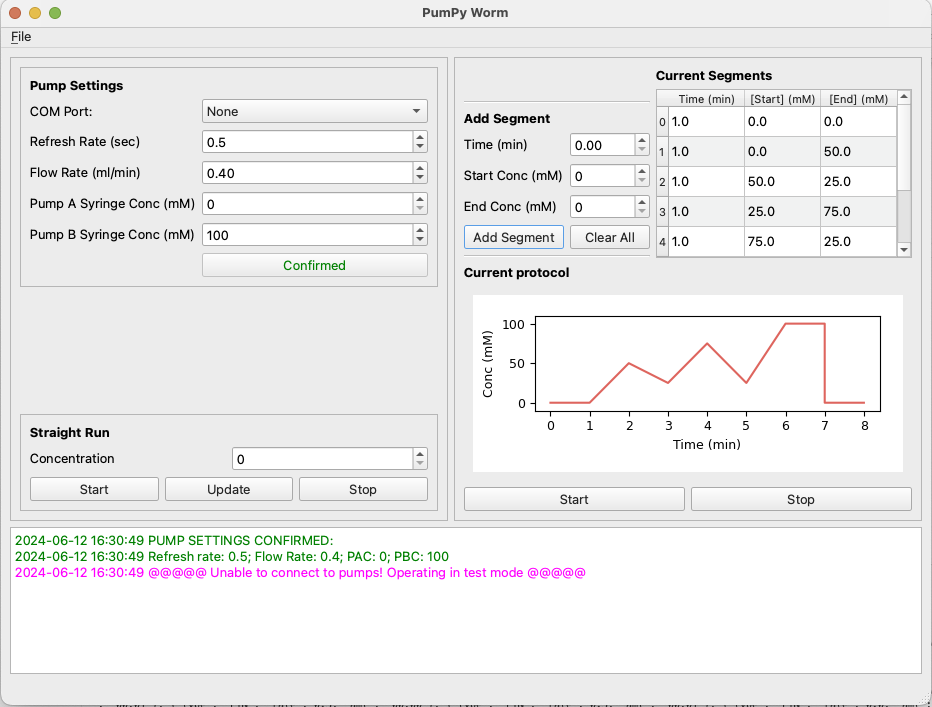
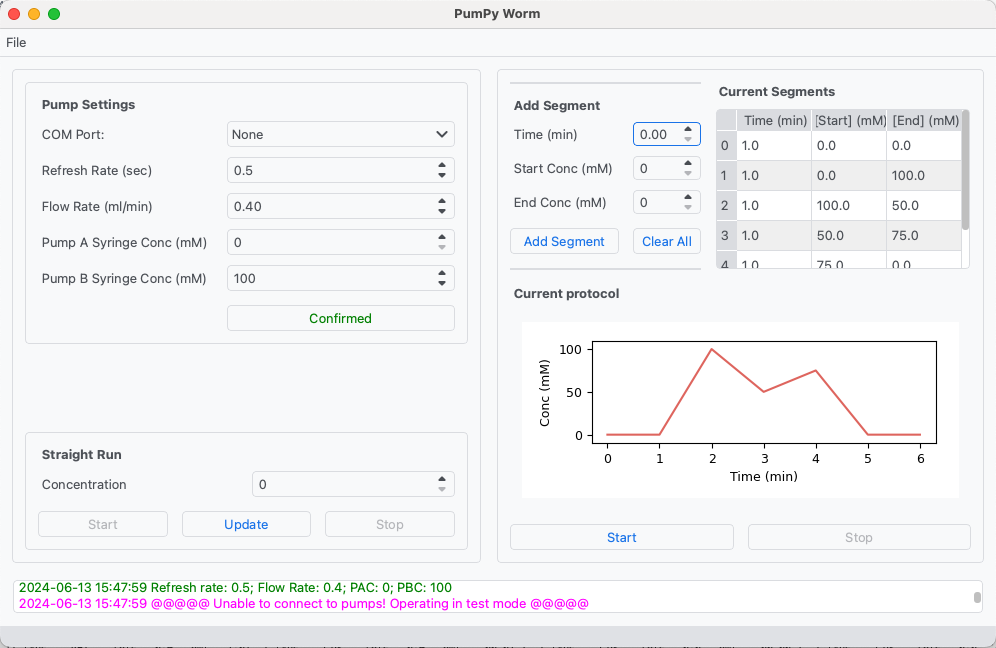
Trying protocols in phase 1. Also adjusted UI interactions with button disabling.

diff --git a/src/pumpyworm/main.py b/src/pumpyworm/main.py
@@ -116,6 +116,7 @@ class PumPyWorm(QMainWindow):
         self.int_timer.timeout.connect(self.timer_tick)
         
         self.ui.table_segments.resizeColumnsToContents()
+        self.ui.spin_straight_conc.valueChanged.connect(self.enable_update)
 
 
     ## SLOTS
@@ -143,17 +144,17 @@ class PumPyWorm(QMainWindow):
         self.ui.but_confirm_settings.setStyleSheet('QPushButton { color: green;}')
         self.ui.but_confirm_settings.setText("Confirmed")
         self.ui.spin_straight_conc.setEnabled(True)
-        self.ui.but_start_pump.setEnabled(True)
+        #self.ui.but_start_pump.setEnabled(True)
         self.ui.but_update_pump.setEnabled(True)
-        self.ui.but_stop_pump.setEnabled(True)
+        #self.ui.but_stop_pump.setEnabled(True)
         self.ui.spin_seg_time.setEnabled(True)
         self.ui.spin_start_conc.setEnabled(True)
         self.ui.spin_end_conc.setEnabled(True)
         self.ui.but_add_segment.setEnabled(True)
         self.ui.but_clear_segments.setEnabled(True)
         self.ui.table_segments.setEnabled(True)
-        self.ui.but_start_protocol.setEnabled(True)
-        self.ui.but_stop_protocol.setEnabled(True)
+        #self.ui.but_start_protocol.setEnabled(True)
+        #self.ui.but_stop_protocol.setEnabled(True)
         self.ui.but_confirm_settings.setDisabled(True)
         self.ui.spin_start_conc.setMaximum(max(self.ui.spin_pac.value(), self.ui.spin_pbc.value()))
         self.ui.spin_end_conc.setMaximum(max(self.ui.spin_pac.value(), self.ui.spin_pbc.value()))
@@ -187,6 +188,20 @@ class PumPyWorm(QMainWindow):
         for pump in self.pumps:
             pump.reset()
     
+    def update_pump(self, rates=None):
+        if not rates:
+            rates = self.calculate_flowrates(self.ui.spin_straight_conc.value())
+        self.write_to_console(f"{datetime.strftime(datetime.now(), FMT)} Pump flow rates are now at {rates} (ml/min)")
+        
+        if self.port:
+            for _n, _pump in enumerate(self.pumps):
+                #_pump.send_run(phases[_n])
+                if rates[_n] > 0:
+                    _pump.send_run()
+                    _pump.pumping_rate = float(rates[_n])
+        self.ui.but_start_pump.setEnabled(True)
+        self.ui.but_update_pump.setDisabled(True)
+    
     def start_pump(self):
         self.write_to_console(f"{datetime.strftime(datetime.now(), FMT)} PUMP START SIGNAL! Running at {self.ui.spin_straight_conc.value()} mM concentration", GREEN)
         concs = self.calculate_flowrates(self.ui.spin_straight_conc.value())
@@ -194,11 +209,16 @@ class PumPyWorm(QMainWindow):
         
         if self.port:
             for _n, _pump in enumerate(self.pumps):
-                if concs[_n] > 0:
-                    if _pump.running:
+                if _pump.running:
                         _pump.stop()
-                        self.update_pump(concs)
-                    _pump.run(wait_while_running=False)
+                if concs[_n] > 0:
+                        _pump.send_run()
+                        _pump.pumping_rate = float(concs[_n])
+                        _pump.run(wait_while_running=False)
+        self.ui.but_stop_pump.setEnabled(True)
+        self.ui.but_start_pump.setDisabled(True)
+        #self.ui.but_start_protocol.setDisabled(True)
+        #self.ui.but_stop_protocol.setDisabled(True)
         
     
     def stop_pump(self):
@@ -212,33 +232,24 @@ class PumPyWorm(QMainWindow):
                 for pump in self.pumps:
                     if pump.running:
                         pump.stop()
-                    
+        self.ui.but_stop_pump.setDisabled(True)
+        self.ui.but_start_pump.setEnabled(True)
+        self.ui.but_update_pump.setEnabled(True)
+        #self.ui.but_start_protocol.setEnabled(True)
+        #self.ui.but_stop_protocol.setDisabled(True)
                 
-    def update_pump(self, rates=None):
-        if not rates:
-            rates = self.calculate_flowrates(self.ui.spin_straight_conc.value())
-        self.write_to_console(f"{datetime.strftime(datetime.now(), FMT)} Pump flow rates are now at {rates} (ml/min)")
-        
-        #phase_a = [{
-        #    "type": "RAT",
-        #    "rate": rates[0],
-        #    "amt": 0
-        #}] if rates[0] > 0 else []
-        #phase_b = [{
-        #    "type": "RAT",
-        #    "rate": rates[1],
-        #    "amt": 0
-        #}] if rates[1] > 0 else []
-        #phases = [phase_a, phase_b]
-        #print(phases)
-        
+    
+    def enable_update(self):
         if self.port:
-            for _n, _pump in enumerate(self.pumps):
-                #_pump.send_run(phases[_n])
-                if rates[_n] > 0:
-                    _pump.send_run()
-                    _pump.pumping_rate = float(rates[_n])
-                    
+            if (self.pumps[0].running or self.pumps[1].running) == False:
+                self.ui.but_update_pump.setEnabled(True)       
+                self.ui.but_start_pump.setDisabled(True)
+                self.ui.but_stop_pump.setDisabled(True)
+        else:
+            self.ui.but_update_pump.setEnabled(True)       
+            self.ui.but_start_pump.setDisabled(True)
+            self.ui.but_stop_pump.setDisabled(True)
+                
 
     
     def save_log(self):
@@ -246,7 +257,6 @@ class PumPyWorm(QMainWindow):
             yourFile.write(str(self.ui.console.toPlainText()))
             
     def start_protocol(self):
-        
         total_time = len(self.protocol.xvals())
         self.run_timer.start(total_time*1000)
         self.int_timer.start(self.protocol.dt()*1000)
@@ -256,10 +266,16 @@ class PumPyWorm(QMainWindow):
         self.write_to_console(f"{datetime.strftime(datetime.now(), FMT)} Protocol is: [Time (min), Conc In (mM), Conc Out (mM)]")
         for i, seg in self.ui.table_segments.model().get_segments().iterrows():
             self.write_to_console(f"{datetime.strftime(datetime.now(), FMT)} {seg['Time (min)']}, {seg['[Start] (mM)']}, {seg['[End] (mM)']}")
+        self.ui.but_start_protocol.setDisabled(True)
+        self.ui.but_stop_protocol.setEnabled(True)
+        self.ui.but_start_pump.setDisabled(True)
         if self.port:
             for n, pump in enumerate(self.pumps):
-                #pump.send_program(self.phases[n])
-                pump.run()
+                # Need this?
+                #if pump.running:
+                #        pump.stop()
+                pump.volume_infused_clear()
+                pump.run(phase=2)
     
     def timer_tick(self):
         if self.run_timer.isActive():
@@ -301,7 +317,8 @@ class PumPyWorm(QMainWindow):
             self.ui.widget_plots.set_x(0)
             self.write_to_console(f"#########################################################################################################")
             self.ui.but_start_pump.setEnabled(True)
-            self.ui.but_stop_pump.setEnabled(True)
+            self.ui.but_start_protocol.setEnabled(True)
+            #self.ui.but_stop_pump.setEnabled(True)
             self.ui.but_update_pump.setEnabled(True)
             
             
@@ -315,12 +332,19 @@ class PumPyWorm(QMainWindow):
             self.update_pump_program()
             self.protocol.generate(self.ui.table_segments.model().get_segments())
             self.ui.widget_plots.on_change(self.protocol)
+            if self.port:
+                if (self.pumps[0].running or self.pumps[1].running) == False:
+                    self.ui.but_start_protocol.setEnabled(True)
+            else:
+                self.ui.but_start_protocol.setEnabled(True)
             #self.ui.table_segments.resizeColumnsToContents()
     
     def clear_segments(self):
         self.ui.table_segments.model().clear_segments()
         self.protocol.generate(self.ui.table_segments.model().get_segments())
         self.ui.widget_plots.on_change(self.protocol)
+        self.ui.but_start_protocol.setDisabled(True)
+        self.ui.but_stop_protocol.setDisabled(True)
         
     
     def update_pump_program(self):

diff --git a/src/pumpyworm/external/nesp_lib/pump.py b/src/pumpyworm/external/nesp_lib/pump.py
@@ -305,16 +305,10 @@ class Pump :
         # It erases the network addresses too! 
         self.__command_transceive(Pump.__CommandName.RESET)
     
-    def send_run (self, wait_while_running : bool = True) -> None :
-        print("SEND RUN!!!")
-        self.__command_transceive(Pump.__CommandName.PHASE, [2])
-        self.wait_while_running()
-        self.__command_transceive(Pump.__CommandName.FUNC, [Pump.__CommandName.STOP.value])
-        self.wait_while_running()
+    def send_run (self, wait_while_running : bool = False) -> None :
         self.__command_transceive(Pump.__CommandName.PHASE, [1])
-        self.wait_while_running()
         self.__command_transceive(Pump.__CommandName.FUNC, [Pump.__CommandName.PUMPING_RATE.value])
-        self.wait_while_running()
+        self.__command_transceive(Pump.__CommandName.PUMPING_DIRECTION, [Pump.__PumpingDirectionInfuse])
             
             
     def send_program(self, prog : list , wait_while_running : bool = True) -> None : 
@@ -322,8 +316,9 @@ class Pump :
         # This command converts a list of program steps into phases on the pump
         if prog != []:
             for n, phase in enumerate(prog):
-                # program offset. #1 is base run, #2 is STOP, #3 is beginning of programs. 
-                n = n + 1
+                # program offset. #1 is base run, #3 is beginning of programs. 
+                # add 1 to convert from index-0, add 1 to skip past the first phase (continuous run)
+                n = n + 1 + 2
                 offset = 0
                 self.__command_transceive(Pump.__CommandName.PHASE, [n+offset])
                 
@@ -348,7 +343,7 @@ class Pump :
                         self.__command_transceive(Pump.__CommandName.FUNC, [Pump.__CommandName.PUMPING_RATE.value])
                         self.__command_transceive(Pump.__CommandName.PUMPING_RATE, [phase["rate"], self.__units])
                         self.__command_transceive(Pump.__CommandName.PUMPING_VOLUME, [vol])
-                        self.__command_transceive(Pump.__CommandName.PUMPING_DIRECTION, [Pump.__PumpingDirectionInfuse])
+                        
                 else:
                     # if phase is LIN
                     self.__command_transceive(Pump.__CommandName.FUNC, [Pump.__CommandName.LINEAR.value])
@@ -361,8 +356,8 @@ class Pump :
             self.wait_while_running()
             #self.__command_transceive(Pump.__CommandName.PHASE, [1])
     
-    def run(self, wait_while_running : bool = False) -> None :
-        self.__command_transceive(Pump.__CommandName.RUN, )
+    def run(self, phase : int = [1], wait_while_running : bool = False) -> None :
+        self.__command_transceive(Pump.__CommandName.RUN, [phase])
         if wait_while_running :
             self.wait_while_running()
     
